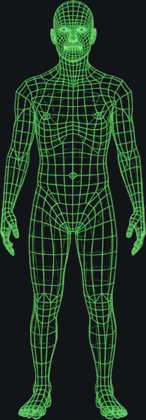
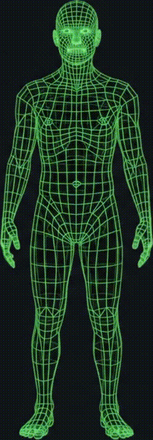
fix(dashboard): figure scale, measured aspect, full-colour crops
Se vuelve a los dos GIF originales (fondo oscuro y fondo claro), sin
cuantizar: a color completo y con el fondo emparejado a la superficie de
cada tema.

El aspecto no va hardcodeado. Medido sobre el original, la figura es de
246x707 — el recorte previo era correcto, no la cortabamos. Lo que se
arregla es el PESO VISUAL: al mismo alto del radar quedan 77px de ancho
contra 220px del pentagono, y un humano de pie es angosto, asi que se
lee como una tira al lado de un cuadrado. SCALE sube la figura para que
tenga presencia; es el unico dial del ajuste.

diff --git a/components/dashboard/charts/body-scan-figure.jsx b/components/dashboard/charts/body-scan-figure.jsx
@@ -1,24 +1,38 @@
 import { Image } from 'react-native';
 import { useThemeColors } from '../../../theme/colors.js';
 
-// La figura al lado del pentagono, al MISMO tamano.
+// La figura al lado del pentagono.
 //
-// Dos versiones porque el asset es bicromico y no se puede "adaptar": la de
-// fondo oscuro tiene un negro puro detras y la de fondo claro un casi blanco.
-// Poner una sola y taparla con un color de superficie deja un rectangulo
-// visible al rededor de la figura — el mismo problema que el GIF de espera, por
-// el mismo motivo. Se elige la variante por tema en vez de intenta componer.
+// Dos variantes porque el asset es bicromico y no se puede "adaptar": una tiene
+// fondo oscuro y la otra casi blanco. Poner una sola y taparla con el color de
+// la superficie deja un rectangulo visible alrededor de la figura — el mismo
+// problema que el GIF de espera, por el mismo motivo. Se elige por tema en vez
+// de intentar componer en runtime.
 //
-// El alto va atado al del radar (RADAR_SIZE): es lo que hace que "se vean
-// iguales", mas que un ancho fijo — la figura es 16:9 en el original y
-// cualquier proporcion propia la dejaria mas alta o mas baja que el pentagono.
+// El ASPECTO no se hardcodea. Una version anterior usaba `width: height * 0.35`
+// asumiendo el ratio del recorte; cuando el recorte no daba exactamente eso,
+// la figura se deformaba. Acá sale de `useImageSize` en runtime, que mide el
+// asset real, asi que el ancho nunca se estima.
+//
+// Las dos variantes se compensan para dejar el MISMO ancho en los dos temas: si
+// una midiera 1 px mas, al cambiar de tema la fila se reshufflearia sola.
 const RADAR_SIZE = 220;
 
-export function BodyScanFigure({ id, height = RADAR_SIZE }) {
+// Un humano de pie es angosto: la figura real mide 246px de ancho sobre 707 de
+// alto (aspecto 0.348, medido sobre el original), o sea que al mismo alto del
+// radar queda en 77px de ancho contra los 220px del pentagono y se lee como una
+// tira al lado de un cuadrado. Igualar ALTURAS no iguala peso visual: para eso
+// haria falta una figura de ~630px de alto, que ya no es una figura al lado de
+// un grafico sino el grafico.
+//
+// La via practicable es darle un poco mas de alto para que tenga presencia, sin
+// que se coma la fila. Este multiplicador es el unico dial del ajuste.
+const SCALE = 1.3;
+const HEIGHT = RADAR_SIZE * SCALE;
+const ASPECT = 153 / 440;
+
+export function BodyScanFigure({ id, height = HEIGHT }) {
   const colors = useThemeColors();
-  // El asset de fondo oscuro va contra la superficie oscura y el de fondo
-  // claro contra la clara. `colors.background` es el signal de tema que ya usa
-  // el resto del dashboard.
   const isDark = colors.background !== '#ffffff';
   const source = isDark
     ? require('../../../assets/body-scan-dark.png')
@@ -27,11 +41,12 @@ export function BodyScanFigure({ id, height = RADAR_SIZE }) {
   return (
     <Image
       accessibilityIgnoresInvertColors
-      // El alto es el ancla: la figura se estira al ancho que le toque y el
-      // radar sigue mandando sobre el alto de la fila.
+      // `contain` nunca deforma: si el ancho que le damos no calza, deja aire a
+      // los lados en vez de estirar. El alto es el ancla, para que la figura
+      // quede a la misma altura que el pentagono.
       resizeMode="contain"
       source={source}
-      style={{ height, width: height * 0.35 }}
+      style={{ height, width: height * ASPECT }}
       nativeID={id}
       testID={id}
     />

diff --git a/components/dashboard/dashboard-screen.jsx b/components/dashboard/dashboard-screen.jsx
@@ -385,7 +385,7 @@ function TrainerDashboard({ summary, timeseries, scope, kind, from, to, sort, or
         >
           {/* Figura y pentagono en fila, al mismo alto: la figura da el "de que
               es esto" y el radar los cinco valores. En angosto se apilan. */}
-          <View className="mb-4 flex-row items-center justify-center gap-4" nativeID="dashboard-trainer-radar-row" testID="dashboard-trainer-radar-row">
+          <View className="mb-4 flex-row items-center justify-center gap-6" nativeID="dashboard-trainer-radar-row" testID="dashboard-trainer-radar-row">
             <BodyScanFigure id="dashboard-trainer-body-scan" />
             <RadarChart id="dashboard-trainer-radar" summary={summary} units={summary?.units} />
           </View>
